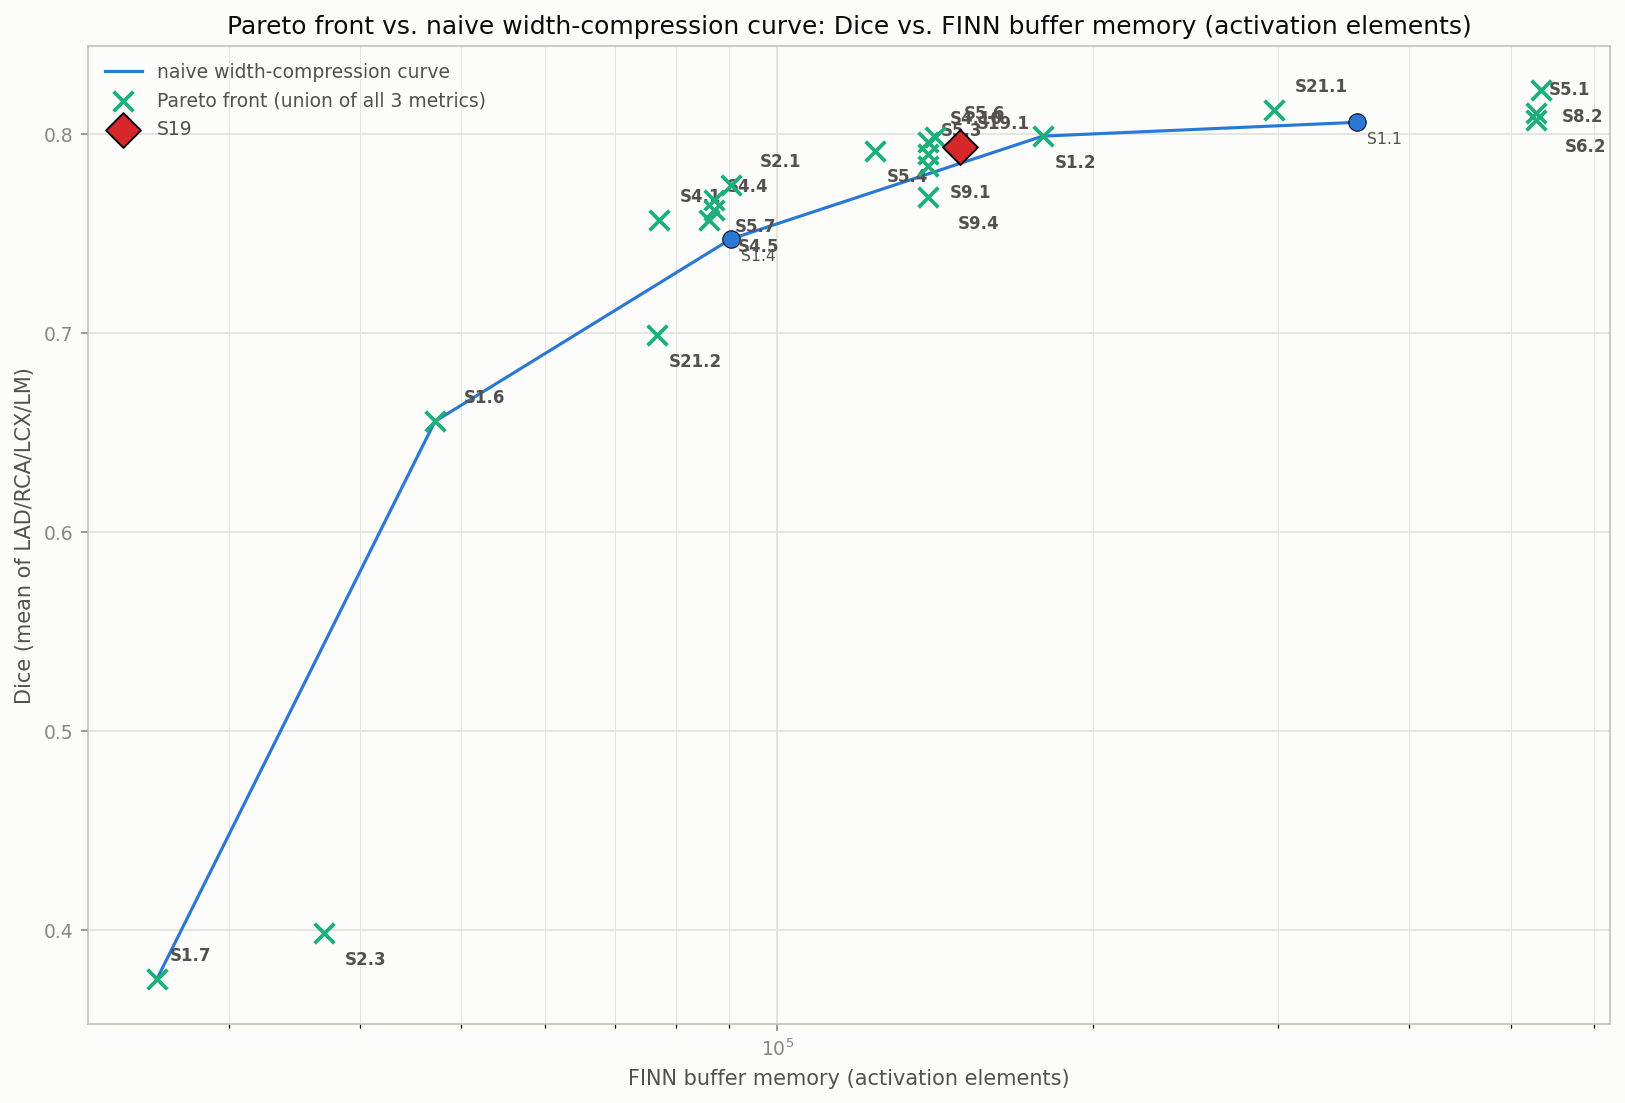
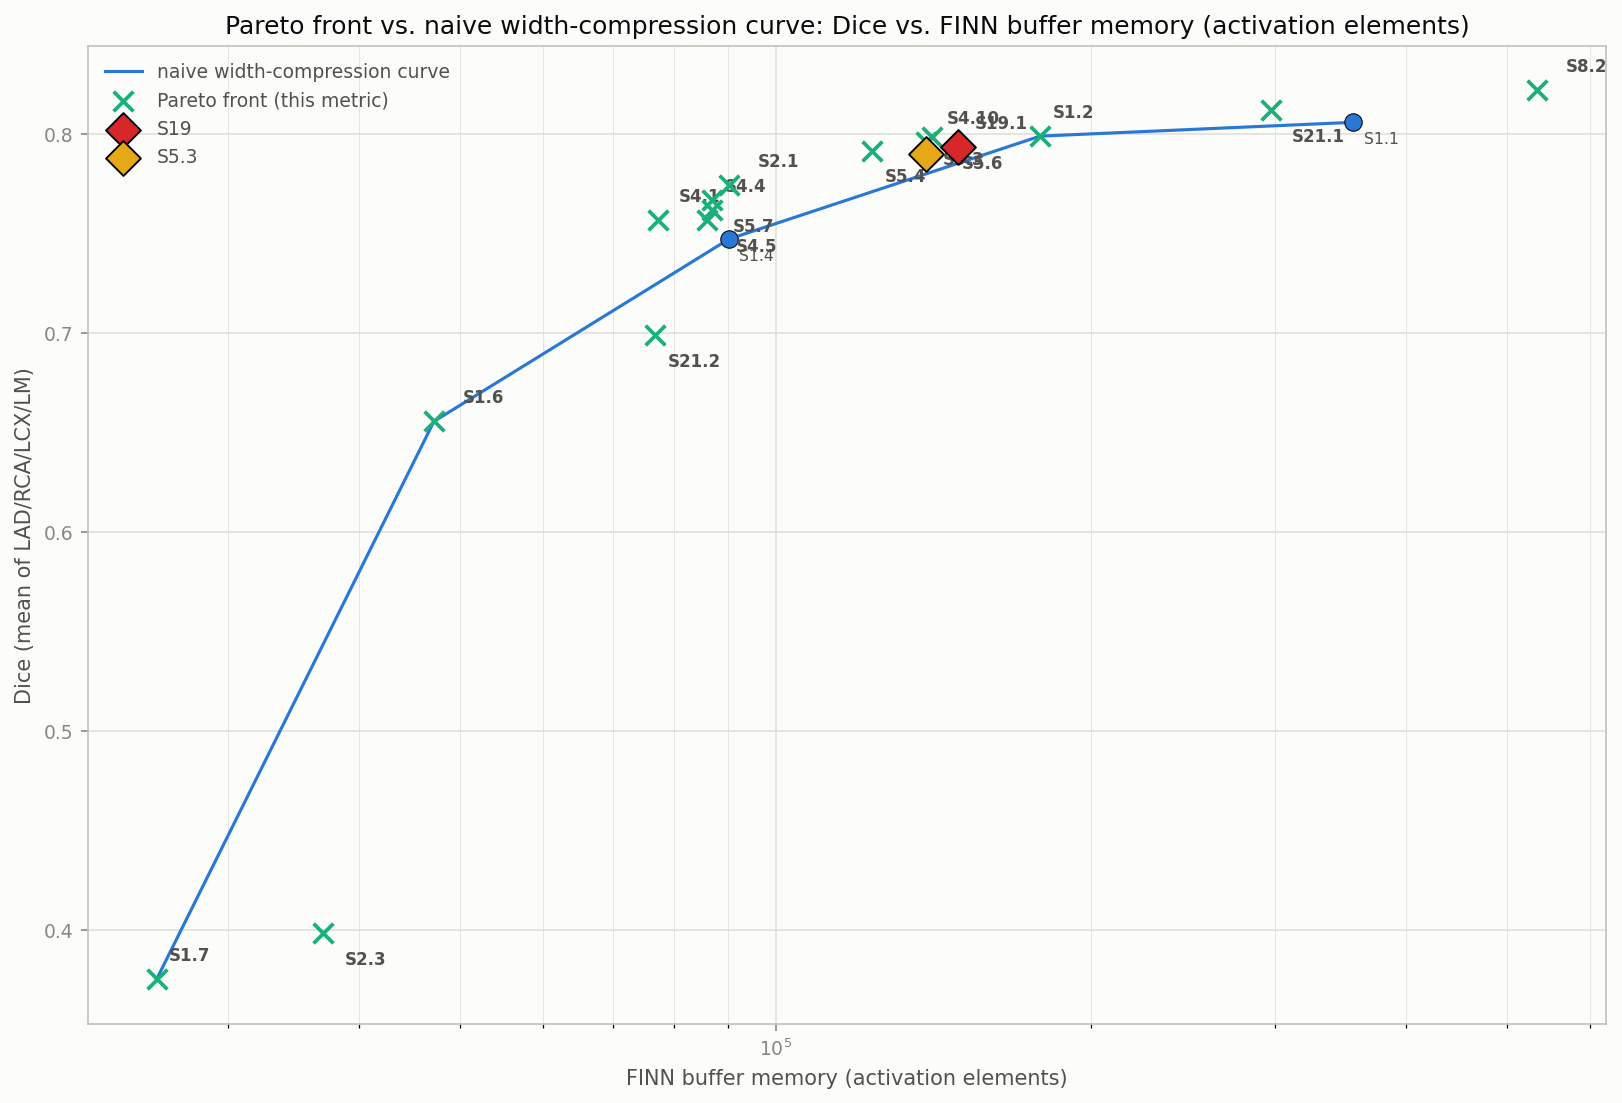
Final plots: revert to each figure computing its own independent Pareto front
Drops the shared union_pareto_configs step from the last two commits --
each of the three figures goes back to computing and plotting its own
per-metric front (pareto_front(pareto_eligible, x_col) called inside
_plot_metric again), so a config Pareto-optimal on params but not on
memory only shows as a front X on the params figure, not all three.
Point counts differ per figure again (11/8/15 today). Keeps everything
else from the intervening commits: the UNFAITHFUL_TRAINING_CONFIGS
exclusion, thin "x" markers, and HIGHLIGHTED_CONFIGS diamonds (S19/S5.3),
now gated on whether a config is on THAT figure's own front rather than a
shared cross-figure set.

diff --git a/compression/plot_final_width_comparison.py b/compression/plot_final_width_comparison.py
@@ -10,14 +10,9 @@ everything-at-once view this is a focused derivative of).
 Pareto front = the standard efficiency-frontier definition: sort by cost
 ascending, keep a point only if its dice strictly exceeds every
 cheaper-or-equal point's dice seen so far (a "staircase" of non-dominated
-points). Computed separately per metric (a config Pareto-optimal in params
-need not be Pareto-optimal in MACs or memory elements too), then the SAME
-markers -- the UNION of all three per-metric fronts, i.e. every config
-that's Pareto-optimal on params OR macs OR mem_elements -- are drawn in all
-three figures. A point that only wins on one axis still shows up
-(off-frontier on the other two), so the same shortlist of contenders can be
-visually tracked across all three figures instead of a different, disjoint
-set of markers silently appearing/disappearing per figure.
+points). Computed independently PER FIGURE/metric -- a config
+Pareto-optimal in params need not be Pareto-optimal in MACs or memory
+elements too, and each figure only shows its own front.
 
 The naive baseline curve is drawn as plain straight-line (piecewise-linear)
 segments, not a smoothing spline -- see plot_all_configs.py's own module
@@ -29,7 +24,7 @@ architectures with no shared axis between them (channel width), so a
 connecting line would visually imply a continuous tradeoff that doesn't
 exist between e.g. S9.4 and S13.1. Front markers are an X. Configs in
 HIGHLIGHTED_CONFIGS (currently S19 and S5.3) get their own colored diamond
-drawn on top, but ONLY when they're not already part of the (union)
+drawn on top, but ONLY when they're not already part of THAT figure's own
 Pareto front -- the whole point of the diamond is to force a look at a
 config the front left out; a config that genuinely IS on the front already
 gets a normal X like everyone else, not a redundant second marker on top
@@ -128,26 +123,16 @@ def pareto_front(df: pd.DataFrame, x_col: str) -> pd.DataFrame:
     return pd.DataFrame(keep)
 
 
-def union_pareto_configs(pareto_eligible: pd.DataFrame, metric_cols: tuple[str, ...]) -> set[str]:
-    """Every config that's Pareto-optimal on AT LEAST ONE of metric_cols --
-    the union, not the intersection, of the per-metric fronts. This is the
-    shortlist drawn (consistently) across all three figures."""
-    union: set[str] = set()
-    for col in metric_cols:
-        union |= set(pareto_front(pareto_eligible, col)["config_name"])
-    return union
-
-
 def _plot_metric(named: pd.DataFrame, naive: pd.DataFrame, pareto_eligible: pd.DataFrame,
-                  front_configs: set[str], x_col: str, x_label: str, out_path: Path) -> None:
+                  x_col: str, x_label: str, out_path: Path) -> None:
     import matplotlib.pyplot as plt
 
     fig, ax = plt.subplots(figsize=(11, 7.5), facecolor=SURFACE)
     _style_axes(ax)
 
     naive_sorted = naive.dropna(subset=[x_col, "dice"]).sort_values(x_col)
-    front = (pareto_eligible[pareto_eligible["config_name"].isin(front_configs)]
-              .dropna(subset=[x_col, "dice"]).sort_values(x_col))
+    front = pareto_front(pareto_eligible, x_col)
+    front_configs = set(front["config_name"]) if not front.empty else set()
     # A naive point that's ALSO Pareto-optimal (e.g. the naive curve's own
     # cheapest/most-efficient points often are) gets its marker+label drawn
     # once below, from the Pareto loop -- skip it here so it isn't
@@ -165,18 +150,18 @@ def _plot_metric(named: pd.DataFrame, naive: pd.DataFrame, pareto_eligible: pd.D
 
     # Highlighted configs (HIGHLIGHTED_CONFIGS) get their own colored
     # diamond, on top of every other layer -- but only for configs that
-    # actually NEED forcing, i.e. aren't already in the (union) Pareto
-    # front. A highlighted config that's already Pareto-optimal on at
-    # least one metric has nothing to force -- it already gets a normal X
-    # marker below, and drawing a redundant diamond on top of its own X
-    # would just be double-marking the same point.
+    # actually NEED forcing, i.e. aren't already on this figure's own
+    # Pareto front. A highlighted config that's genuinely Pareto-optimal on
+    # this metric has nothing to force -- it already gets a normal X marker
+    # below, and drawing a redundant diamond on top of its own X would just
+    # be double-marking the same point.
     diamond_configs = {c: v for c, v in HIGHLIGHTED_CONFIGS.items() if c not in front_configs}
     front_other = front[~front["config_name"].isin(diamond_configs)] if not front.empty else front
     if not front_other.empty:
         # Lowercase "x" -- matplotlib's thin, unfilled line-cross marker
         # (like a text "X" glyph), not the bold uppercase "X" filled marker.
         ax.scatter(front_other[x_col], front_other["dice"], color=PARETO_COLOR, s=90, zorder=5,
-                   marker="x", linewidths=1.8, label="Pareto front (union of all 3 metrics)")
+                   marker="x", linewidths=1.8, label="Pareto front (this metric)")
         # Alternate the label offset up/down (and vary horizontal reach a
         # little) so densely-packed Pareto points -- common near the
         # "knee" of the curve where several architectures land close
@@ -231,16 +216,13 @@ def main() -> int:
         return 1
 
     pareto_eligible = named[~named["config_name"].isin(UNFAITHFUL_TRAINING_CONFIGS)]
-    metric_cols = ("params", "macs", "mem_elements")
-    front_configs = union_pareto_configs(pareto_eligible, metric_cols)
-    print(f"Pareto front (union of {metric_cols}): {len(front_configs)} configs")
 
     args.out_dir.mkdir(parents=True, exist_ok=True)
-    _plot_metric(named, naive, pareto_eligible, front_configs, "params", "Parameters",
+    _plot_metric(named, naive, pareto_eligible, "params", "Parameters",
                  args.out_dir / "dice_vs_params_final.png")
-    _plot_metric(named, naive, pareto_eligible, front_configs, "macs", "MACs",
+    _plot_metric(named, naive, pareto_eligible, "macs", "MACs",
                  args.out_dir / "dice_vs_macs_final.png")
-    _plot_metric(named, naive, pareto_eligible, front_configs, "mem_elements",
+    _plot_metric(named, naive, pareto_eligible, "mem_elements",
                  "FINN buffer memory (activation elements)", args.out_dir / "dice_vs_mem_elements_final.png")
     return 0
 
